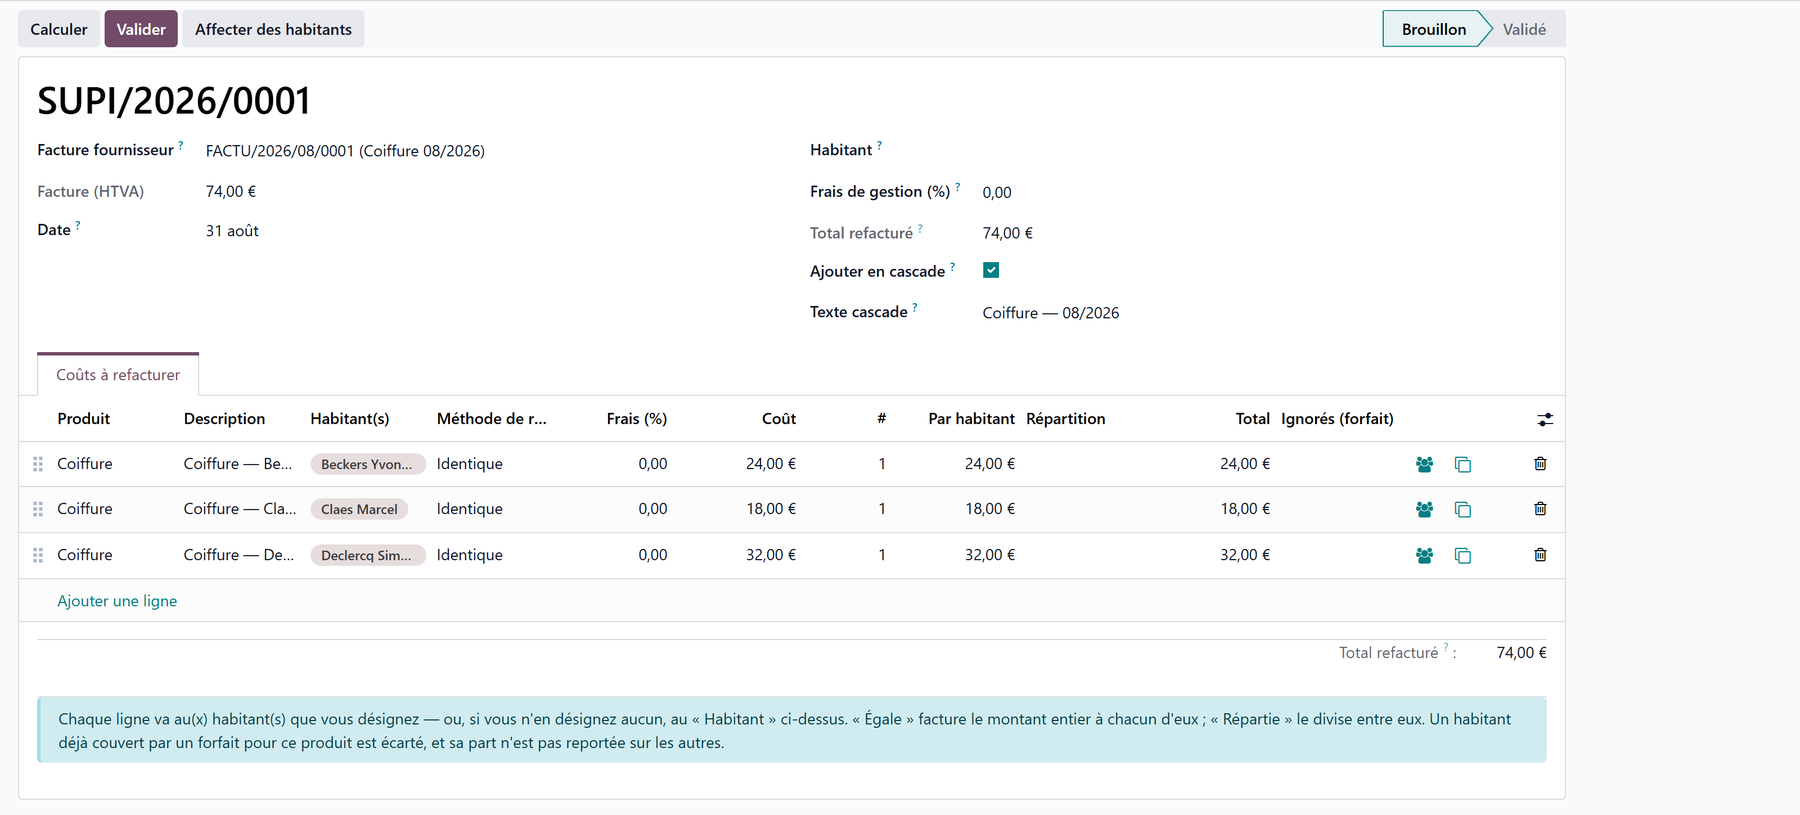
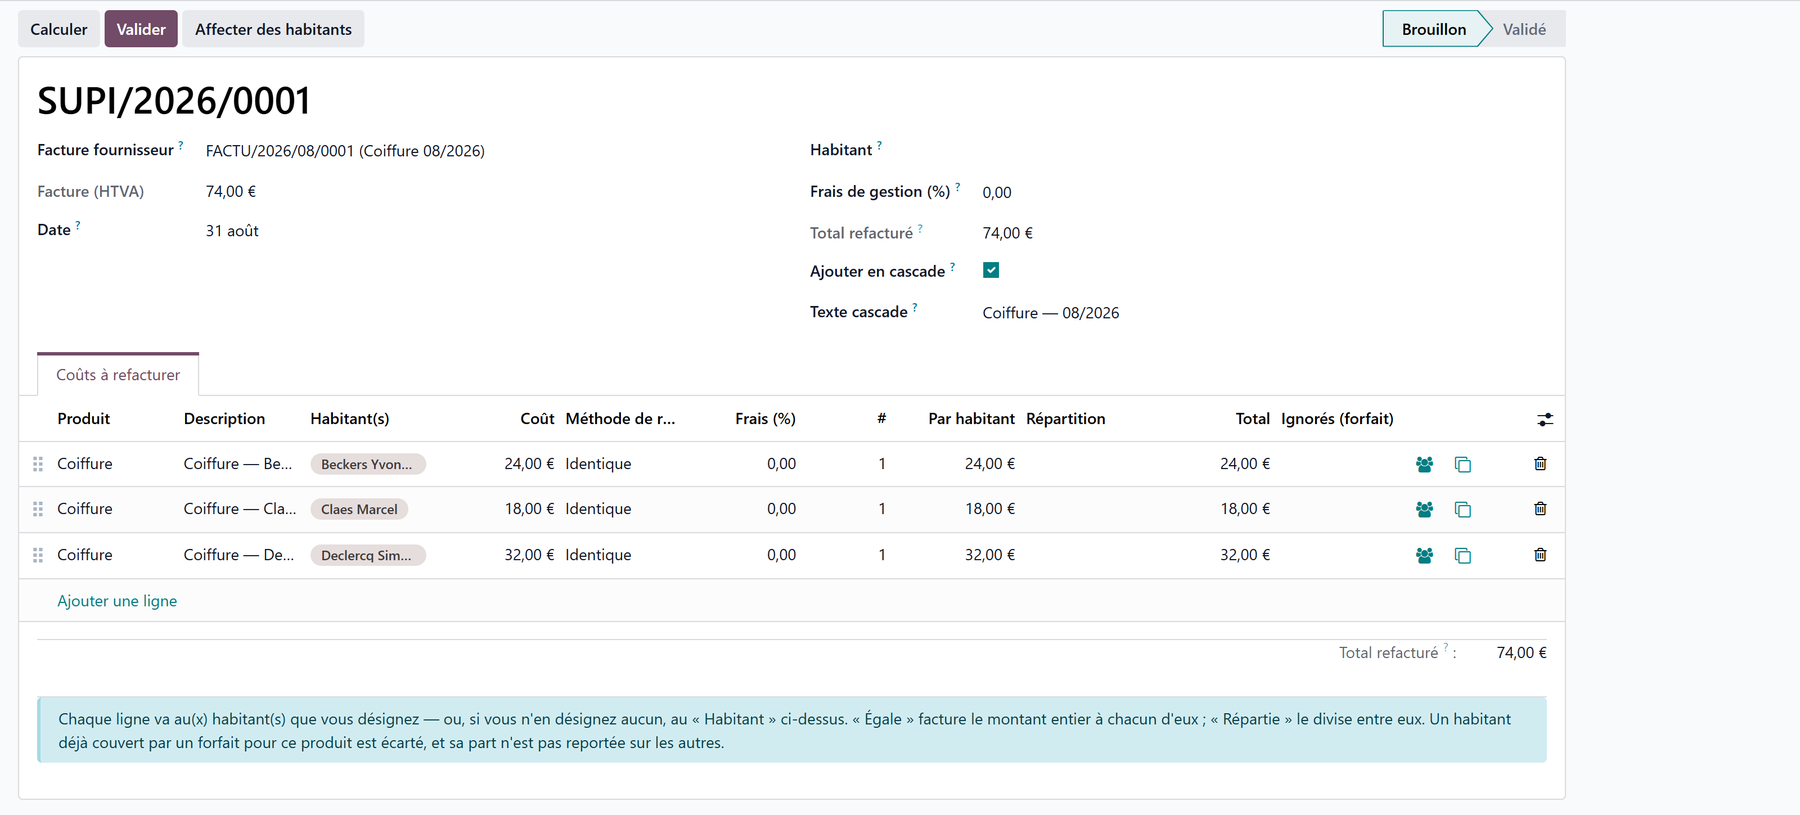
Mise à jour des traductions en français et néerlandais pour refléter l'ordre alphabétique des habitants dans la documentation sur la refacturation des fournisseurs.

diff --git a/content/facturation/refacturation-fournisseur.md b/content/facturation/refacturation-fournisseur.md
@@ -109,14 +109,14 @@ line total.
 
 A hairdresser's statement is one line per resident, all worded the same. Tick
 **Add in cascade** and fill in the **Cascade text**: every line you then add
-opens with that wording and with the **next resident of the house**, in order
-of entry.
+opens with that wording and with the **next resident of the house**, in
+alphabetical order.
 
 ![The Add in cascade box ticked, revealing the Cascade text field on the recharge](../assets/screenshots/facturation/12-refacturation-cascade.png)
 
 Adding a line then comes down to keying the amount.
 
-- Residents are served **in order of entry**, oldest first, and only those
+- Residents are served **in alphabetical order**, A to Z, and only those
   currently present.
 - The lines that came from the bill are **never** rewritten, so you can tick
   the box halfway through a document.
@@ -180,7 +180,7 @@ is the safer behaviour for a home that has not decided.
   back to the source bill kept in both directions.
 - **Equal** charges the full amount to each resident; **Spread** divides it.
 - **Add in cascade** pre-fills each new line with a common wording and the next
-  resident, in order of entry.
+  resident, in alphabetical order.
 - A resident covered by a **flat-rate agreement** is skipped, visibly, and the
   others pay no more for it.
 - Cancelling is possible right up to the moment an invoice carries the
